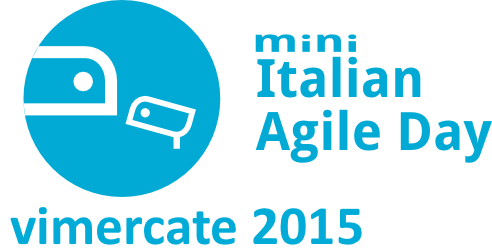
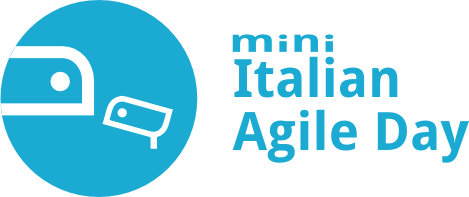
fix header img, now transparent

diff --git a/public/index.html b/public/index.html
@@ -7,7 +7,7 @@
       Italian Agile Day che va in tournée a Vimercate. Tratta argomenti
       come Agile, Lean, Extreme Programming sia a livello di processo
       che di pratiche.">
-    <meta property="og:image" content="http://www.agileday.it/mini/2017/vimercate/img/iad-vim-large-2017.png">
+    <meta property="og:image" content="http://www.agileday.it/mini/2017/vimercate/img/iad-vim-large.png">
     <meta property="og:url" content="http://www.agileday.it/mini/2017/vimercate/">
     <meta property="og:title" content="mini Italian Agile Day Vimercate 2017">
     <meta property="og:description" content="mini IAD Vimercate è
@@ -143,14 +143,14 @@
 							</div>
 						-->
               <div class="brand-frame">
-                <h1 class="brand-heading"><img id="headerimg"
-                    src="img/iad-vim-large-2017.png" alt="mini IAD Vimercate 2017"> </h1>
-                <h2>Inspiring Continuous Improvement</h2>
-                <p class="intro-text"> L'Italian Agile Days si fa
-                  piccolo e va in tournée <br>
-                  <b>Vimercate, 11 febbraio 2017</b> </p>
-                <div class="page-scroll"> <a href="#programma"
-                    class="btn btn-circle"> </a> </div>
+                <h1 class="brand-heading">
+                  <img id="headerimg" src="img/iad-vim-large.png" alt="mini IAD">
+                </h1>
+                <h1>Vimercate 2017</h1>
+                <p class="intro-text"> L'Italian Agile Days si fa piccolo e va in tournée <br>
+                  <b>Vimercate, 11 febbraio 2017</b>
+                </p>
+                <div class="page-scroll"> <a href="#programma" class="btn btn-circle"> </a> </div>
                 <p class="page-scroll"> </p>
                 <table style="margin-left: auto; margin-right: auto">
                   <tbody>
@@ -284,7 +284,7 @@
     <section id="staff" class="content-section text-center">
       <div class="row">
         <div class="col-lg-8 col-lg-offset-2">
-          <h2>Questo mini IAD è organizzato da membri di Italian&nbsp;Agile&nbsp;Movement, in collaborazione con Nokia </h2>
+          <h2>Questo mini IAD è organizzato da membri di Italian&nbsp;Agile&nbsp;Movement, in collaborazione con Nokia</h2>
         </div>
       </div>
 
